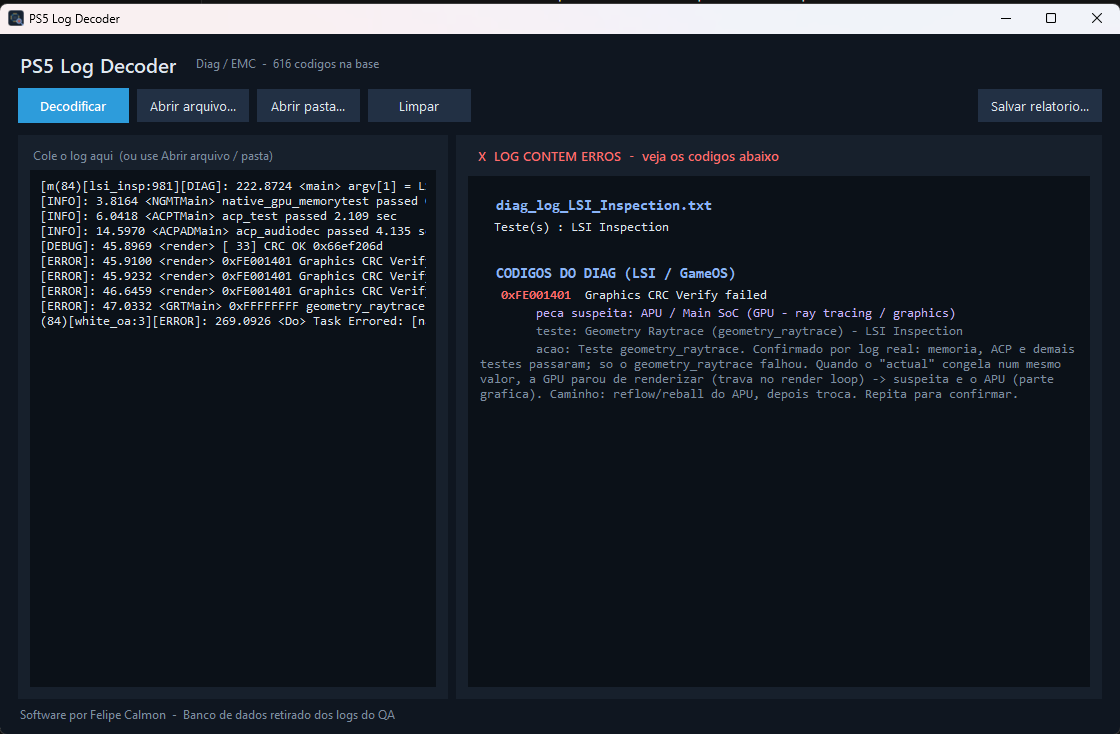
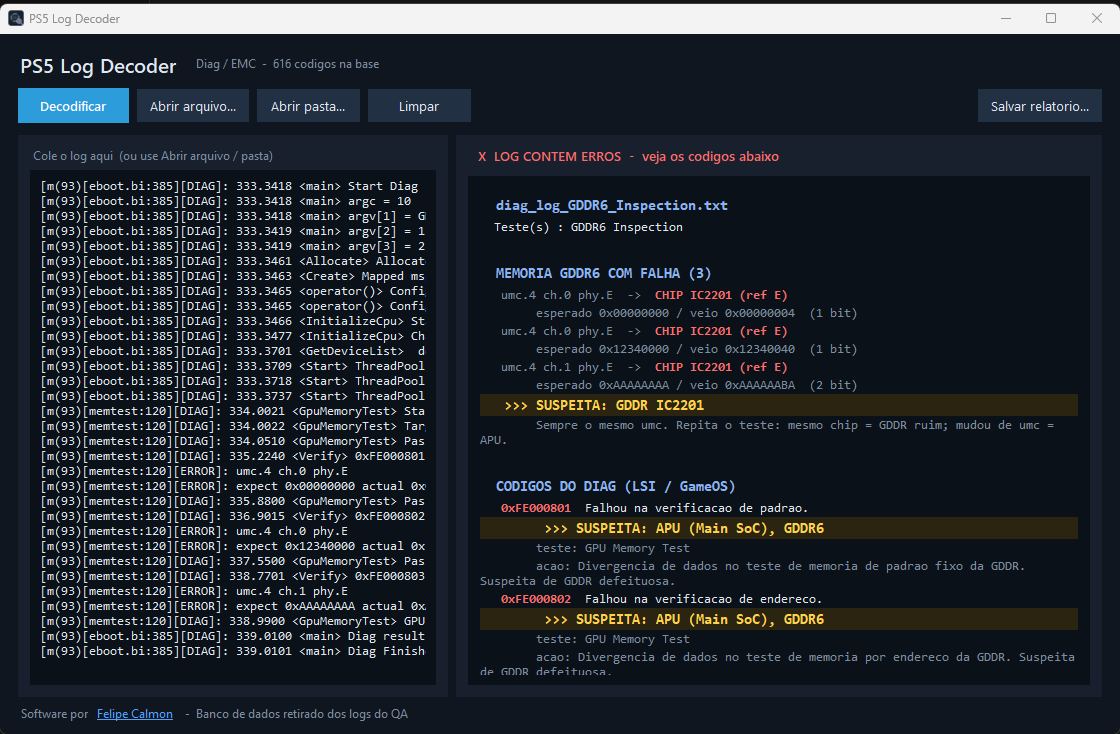
v1.3: traducoes em PT, suspeita em destaque, deteccao de NAND e nucleos de CPU, sem cortes de texto

diff --git a/README.md b/README.md
@@ -20,19 +20,24 @@ Baixe o programa pronto na aba **[Releases](../../releases/latest)** →
 
 ## Recursos
 
-- **Traduz os códigos de erro** para português e aponta a peça/área suspeita.
-  Base com mais de 600 códigos, extraídos das próprias tabelas de diagnóstico do QA
-  (ErrorCodeTable, DiagSummary e EMC Error Code).
+- **Tudo em português.** As mensagens e os procedimentos saem traduzidos, mantendo
+  as siglas técnicas (CRC, GDDR, NAND, PCIe) e os nomes de teste. A **suspeita fica
+  em destaque**, fácil de bater o olho.
+- **Base com mais de 600 códigos**, extraídos das próprias tabelas de diagnóstico do
+  QA (ErrorCodeTable, DiagSummary e EMC Error Code), já com a peça/área suspeita.
 - **Identifica a memória GDDR com defeito.** Ao encontrar `umc.N` no log, mostra o
   chip físico exato (ex.: `IC2201 / ref E`) e aplica a regra oficial:
   mesmo `umc` sempre = GDDR ruim; `umc` variando = APU.
-- **Separa memória x APU.** Cruza quais testes passaram para apontar se o problema
-  é a RAM ou o processador (Main SoC).
+- **Identifica a NAND do SSD interno.** Lê o status por canal
+  (`ch0 … ch11`) e aponta o chip NAND (ex.: `CH5 → IC4203 / CE0`).
+- **Núcleos de CPU.** No teste de carga, mostra qual(is) CPU falharam (ex.: CPU2, CPU3).
+- **Separa memória × APU.** Cruza quais testes passaram para apontar se o problema
+  é a RAM/SSD ou o processador (APU / Main SoC).
 - **Mostra a temperatura** registrada no EMC (SoC e ambiente), destacando
   superaquecimento em vermelho.
 - **Lê dois tipos de log:** o do **Diag / LSI Inspection** (gravado no pendrive)
   e o **EMC Error Log**.
-- **Filtra ruído:** ignora valores de dado (`expect/actual`, endereços, handles)
+- **Filtra ruído:** ignora valores de dado (`expect/actual`, CRC, endereços, handles)
   que não são códigos de erro.
 
 ## Como usar
